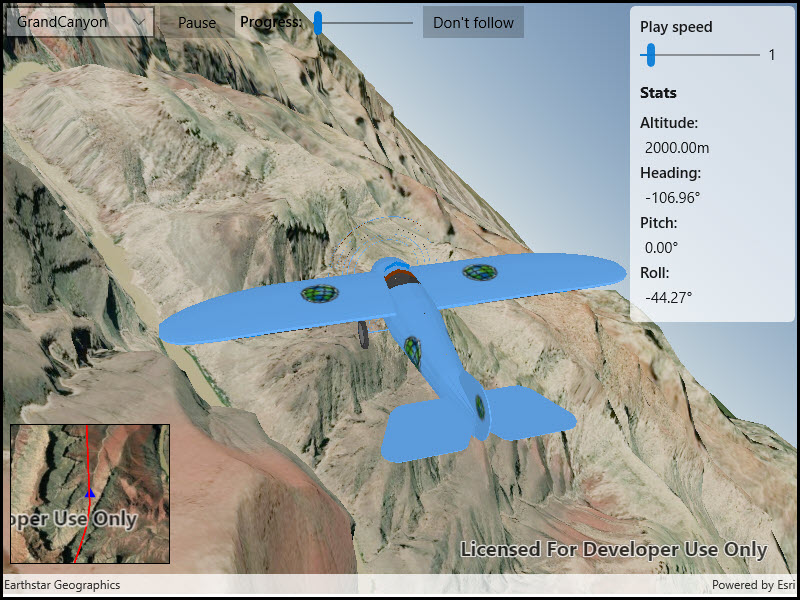
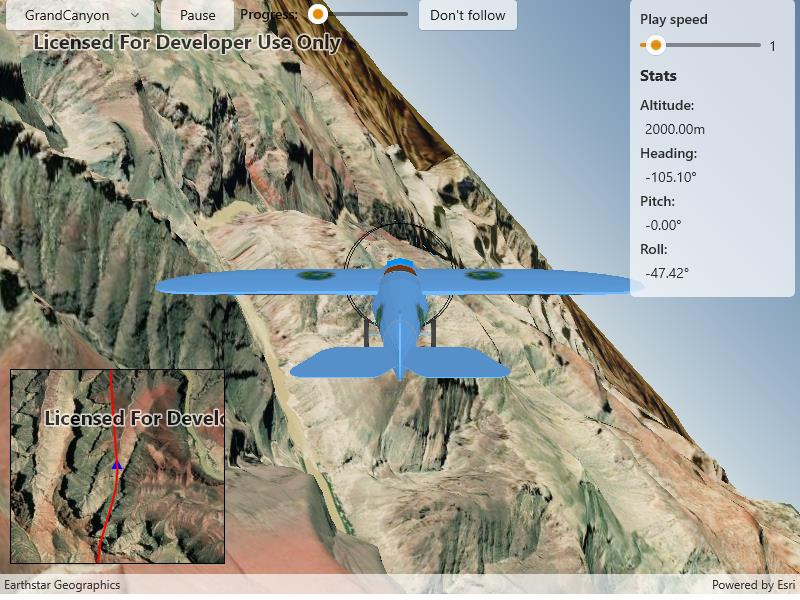
Animate3DGraphic follow plane bug fix and UI enhancements (#1212)

diff --git a/src/MAUI/Maui.Samples/Samples/GraphicsOverlay/Animate3DGraphic/Animate3DGraphic.xaml b/src/MAUI/Maui.Samples/Samples/GraphicsOverlay/Animate3DGraphic/Animate3DGraphic.xaml
@@ -3,49 +3,49 @@
              xmlns="http://schemas.microsoft.com/dotnet/2021/maui"
              xmlns:x="http://schemas.microsoft.com/winfx/2009/xaml"
              xmlns:esriUI="clr-namespace:Esri.ArcGISRuntime.Maui;assembly=Esri.ArcGISRuntime.Maui">
-    <Grid>
-        <esriUI:SceneView x:Name="MySceneView" AtmosphereEffect="Realistic" />
-        <Border x:Name="LayoutFrame"
-                Margin="5"
-                BackgroundColor="{AppThemeBinding Light=#dfdfdf,
-                                                  Dark=#303030}"
-                HorizontalOptions="End"
-                StrokeShape="RoundRectangle 5"
-                VerticalOptions="Start">
-            <StackLayout Padding="5">
+    <Grid Style="{DynamicResource EsriSampleContainer}">
+        <esriUI:SceneView x:Name="MySceneView"
+                          AtmosphereEffect="Realistic"
+                          Style="{DynamicResource EsriSampleGeoView}" />
+        <Border Style="{DynamicResource EsriSampleControlPanel}" WidthRequest="{OnPlatform MacCatalyst=375, WinUI=375}">
+            <StackLayout>
+                <StackLayout Orientation="Horizontal" Spacing="5">
+                    <Picker x:Name="MissionSelectionBox"
+                            HorizontalTextAlignment="Center"
+                            WidthRequest="150" />
+                    <Button x:Name="MissionPlayPause"
+                            Clicked="MissionPlayPlauseClick"
+                            Text="Pause"
+                            WidthRequest="75" />
+                    <Button x:Name="CameraControlButton"
+                            Clicked="ToggleFollowPlane"
+                            Text="Don't Follow"
+                            WidthRequest="110" />
+                </StackLayout>
                 <Label Text="Mission Progress:" />
                 <Slider x:Name="MissionProgressBar"
                         Maximum="100"
-                        ValueChanged="MissionProgressOnSeek" />
-                <Label>Altitude:</Label>
-                <Label x:Name="AltitudeLabel" />
-                <Label>Heading:</Label>
-                <Label x:Name="HeadingLabel" />
-                <Label>Pitch:</Label>
-                <Label x:Name="PitchLabel" />
-                <Label>Roll:</Label>
-                <Label x:Name="RollLabel" />
-            </StackLayout>
-        </Border>
-        <esriUI:MapView x:Name="InsetMapView"
-                        Margin="20"
-                        HeightRequest="150"
-                        HorizontalOptions="Start"
-                        IsAttributionTextVisible="False"
-                        VerticalOptions="End"
-                        WidthRequest="150" />
-        <Border Margin="5"
-                BackgroundColor="{AppThemeBinding Light=#dfdfdf,
-                                                  Dark=#303030}"
-                HorizontalOptions="Start"
-                StrokeShape="RoundRectangle 5"
-                VerticalOptions="Start">
-            <StackLayout Orientation="Vertical" Spacing="5">
-                <Picker x:Name="MissionSelectionBox" WidthRequest="125" />
-                <Button x:Name="MissionPlayPause"
-                        Clicked="MissionPlayPlauseClick"
-                        Text="Pause" />
-                <Button Clicked="ToggleFollowPlane" Text="Don't Follow" />
+                        ValueChanged="MissionProgressOnSeek"
+                        WidthRequest="350" />
+                <Grid ColumnDefinitions="100,*">
+                    <StackLayout Orientation="Vertical">
+                        <Label>Altitude:</Label>
+                        <Label x:Name="AltitudeLabel" />
+                        <Label>Heading:</Label>
+                        <Label x:Name="HeadingLabel" />
+                        <Label>Pitch:</Label>
+                        <Label x:Name="PitchLabel" />
+                        <Label>Roll:</Label>
+                        <Label x:Name="RollLabel" />
+                    </StackLayout>
+                    <esriUI:MapView x:Name="InsetMapView"
+                                    Grid.Column="1"
+                                    HeightRequest="150"
+                                    HorizontalOptions="End"
+                                    IsAttributionTextVisible="False"
+                                    VerticalOptions="Start"
+                                    WidthRequest="150" />
+                </Grid>
             </StackLayout>
         </Border>
     </Grid>

diff --git a/src/WinUI/ArcGIS.WinUI.Viewer/Samples/GraphicsOverlay/Animate3DGraphic/Animate3DGraphic.xaml b/src/WinUI/ArcGIS.WinUI.Viewer/Samples/GraphicsOverlay/Animate3DGraphic/Animate3DGraphic.xaml
@@ -31,7 +31,8 @@
                     Orientation="Horizontal">
             <ComboBox x:Name="MissionSelectionBox"
                       MinWidth="150"
-                      VerticalAlignment="Top" />
+                      VerticalAlignment="Top"
+                      HorizontalContentAlignment="Center" />
             <Button x:Name="MissionPlayPause"
                     MinWidth="75"
                     Margin="5,0,0,0"
@@ -50,7 +51,8 @@
                     Minimum="0"
                     StepFrequency=".01"
                     ValueChanged="MissionProgressOnSeek" />
-            <Button MinWidth="100"
+            <Button x:Name="CameraControlButton"
+                    MinWidth="100"
                     Margin="5,0,0,0"
                     VerticalAlignment="Top"
                     Click="ToggleFollowPlane"

diff --git a/src/WPF/WPF.Viewer/Samples/GraphicsOverlay/Animate3DGraphic/Animate3DGraphic.xaml b/src/WPF/WPF.Viewer/Samples/GraphicsOverlay/Animate3DGraphic/Animate3DGraphic.xaml
@@ -43,7 +43,8 @@
             <ComboBox x:Name="MissionSelectionBox"
                       Width="100"
                       Height="25"
-                      VerticalAlignment="Top" />
+                      VerticalAlignment="Top"
+                      HorizontalContentAlignment="Center" />
             <Button x:Name="MissionPlayPause"
                     Width="50"
                     Height="25"
@@ -60,7 +61,8 @@
                     Maximum="1"
                     Minimum="0"
                     ValueChanged="MissionProgressOnSeek" />
-            <Button Width="100"
+            <Button x:Name="CameraControlButton"
+                    Width="100"
                     Height="25"
                     VerticalAlignment="Top"
                     Click="ToggleFollowPlane"

diff --git a/src/WPF/WPF.Viewer/Samples/GraphicsOverlay/Animate3DGraphic/Animate3DGraphic.xaml.cs b/src/WPF/WPF.Viewer/Samples/GraphicsOverlay/Animate3DGraphic/Animate3DGraphic.xaml.cs
@@ -34,7 +34,7 @@ namespace ArcGIS.WPF.Samples.Animate3DGraphic
         description: "An `OrbitGeoElementCameraController` follows a graphic while the graphic's position and rotation are animated.",
         instructions: "Animation Controls:",
         tags: new[] { "animation", "camera", "heading", "pitch", "roll", "rotation", "visualize" })]
-	[ArcGIS.Samples.Shared.Attributes.OfflineData("290f0c571c394461a8b58b6775d0bd63", "681d6f7694644709a7c830ec57a2d72b", "e87c154fb9c2487f999143df5b08e9b1", "5a9b60cee9ba41e79640a06bcdf8084d", "12509ffdc684437f8f2656b0129d2c13")]
+    [ArcGIS.Samples.Shared.Attributes.OfflineData("290f0c571c394461a8b58b6775d0bd63", "681d6f7694644709a7c830ec57a2d72b", "e87c154fb9c2487f999143df5b08e9b1", "5a9b60cee9ba41e79640a06bcdf8084d", "12509ffdc684437f8f2656b0129d2c13")]
     public partial class Animate3DGraphic
     {
         // URL to the elevation service - provides terrain elevation
@@ -211,10 +211,8 @@ namespace ArcGIS.WPF.Samples.Animate3DGraphic
             _frameCount = _missionData.Length;
             _keyframe = 0;
 
-            // Set the MissionPlayPause button back to the currently 'playing' state
-            MissionPlayPause.Content = "Pause";
-
-            // Restart the animation
+            // At the start of a new mission, follow the animated plane
+            FollowPlane(true);
             _animationTimer.Start();
         }
 
@@ -347,25 +345,24 @@ namespace ArcGIS.WPF.Samples.Animate3DGraphic
 
         private void ToggleFollowPlane(object sender, RoutedEventArgs e)
         {
-            // Get a reference to the button
-            Button cameraControlButton = (Button)sender;
-
             // Get the current text of the button
-            string cameraControlText = cameraControlButton.Content.ToString();
+            FollowPlane(CameraControlButton.Content.ToString() == "Follow");
+        }
 
-            switch (cameraControlText)
+        private void FollowPlane(bool follow)
+        {
+            if (follow)
             {
-                // Resume following
-                case "Follow":
-                    cameraControlButton.Content = "Don't follow";
-                    MySceneView.CameraController = _orbitCameraController;
-                    break;
+                CameraControlButton.Content = "Don't follow";
+                MySceneView.CameraController = _orbitCameraController;
+            }
+            else
+            {
                 // Stop following
-                case "Don't follow":
-                    cameraControlButton.Content = "Follow";
-                    // Setting the scene view's camera controller to null has the effect of resetting the value to the default
-                    MySceneView.CameraController = null;
-                    break;
+                CameraControlButton.Content = "Follow";
+
+                // Setting the scene view's camera controller to null has the effect of resetting the value to the default
+                MySceneView.CameraController = null;
             }
         }
 

diff --git a/src/MAUI/Maui.Samples/Samples/GraphicsOverlay/Animate3DGraphic/Animate3DGraphic.xaml.cs b/src/MAUI/Maui.Samples/Samples/GraphicsOverlay/Animate3DGraphic/Animate3DGraphic.xaml.cs
@@ -70,10 +70,6 @@ namespace ArcGIS.Samples.Animate3DGraphic
         {
             InitializeComponent();
 
-            // Hide the stats display on iOS because it looks bad
-#if IOS
-            LayoutFrame.IsVisible = false;
-#endif
             // Create the UI, setup the control references and execute initialization
             _ = Initialize();
         }
@@ -202,7 +198,8 @@ namespace ArcGIS.Samples.Animate3DGraphic
             // Set the MissionPlayPause button back to the currently 'playing' state
             MissionPlayPause.Text = "Pause";
 
-            // Restart the animation
+            // At the start of a new mission, follow the animated plane
+            FollowPlane(true);
             _animationTimer = true;
         }
 
@@ -335,25 +332,24 @@ namespace ArcGIS.Samples.Animate3DGraphic
 
         private void ToggleFollowPlane(object sender, EventArgs e)
         {
-            // Get a reference to the button
-            Button cameraControlButton = (Button)sender;
-
             // Get the current text of the button
-            string cameraControlText = cameraControlButton.Text;
+            FollowPlane(CameraControlButton.Text == "Follow");
+        }
 
-            switch (cameraControlText)
+        private void FollowPlane(bool follow)
+        {
+            if (follow)
             {
-                // Resume following
-                case "Follow":
-                    cameraControlButton.Text = "Don't Follow";
-                    MySceneView.CameraController = _orbitCameraController;
-                    break;
+                CameraControlButton.Text = "Don't follow";
+                MySceneView.CameraController = _orbitCameraController;
+            }
+            else
+            {
                 // Stop following
-                case "Don't Follow":
-                    cameraControlButton.Text = "Follow";
-                    // Setting the scene view's camera controller to null has the effect of resetting the value to the default
-                    MySceneView.CameraController = null;
-                    break;
+                CameraControlButton.Text = "Follow";
+
+                // Setting the scene view's camera controller to null has the effect of resetting the value to the default
+                MySceneView.CameraController = null;
             }
         }
 

diff --git a/src/WinUI/ArcGIS.WinUI.Viewer/Samples/GraphicsOverlay/Animate3DGraphic/Animate3DGraphic.xaml.cs b/src/WinUI/ArcGIS.WinUI.Viewer/Samples/GraphicsOverlay/Animate3DGraphic/Animate3DGraphic.xaml.cs
@@ -207,7 +207,8 @@ namespace ArcGIS.WinUI.Samples.Animate3DGraphic
             // Set the MissionPlayPause button back to the currently 'playing' state
             MissionPlayPause.Content = "Pause";
 
-            // Restart the animation
+            // At the start of a new mission, follow the animated plane
+            FollowPlane(true);
             _animationTimer.Start();
         }
 
@@ -340,25 +341,24 @@ namespace ArcGIS.WinUI.Samples.Animate3DGraphic
 
         private void ToggleFollowPlane(object sender, RoutedEventArgs e)
         {
-            // Get a reference to the button
-            Button cameraControlButton = (Button)sender;
-
             // Get the current text of the button
-            string cameraControlText = cameraControlButton.Content?.ToString();
+            FollowPlane(CameraControlButton.Content.ToString() == "Follow");
+        }
 
-            switch (cameraControlText)
+        private void FollowPlane(bool follow)
+        {
+            if (follow)
             {
-                // Resume following
-                case "Follow":
-                    cameraControlButton.Content = "Don't follow";
-                    MySceneView.CameraController = _orbitCameraController;
-                    break;
+                CameraControlButton.Content = "Don't follow";
+                MySceneView.CameraController = _orbitCameraController;
+            }
+            else
+            {
                 // Stop following
-                case "Don't follow":
-                    cameraControlButton.Content = "Follow";
-                    // Setting the scene view's camera controller to null has the effect of resetting the value to the default
-                    MySceneView.CameraController = null;
-                    break;
+                CameraControlButton.Content = "Follow";
+
+                // Setting the scene view's camera controller to null has the effect of resetting the value to the default
+                MySceneView.CameraController = null;
             }
         }
 
